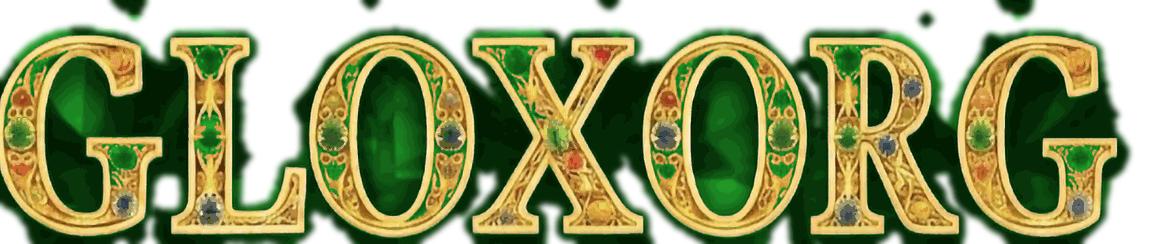
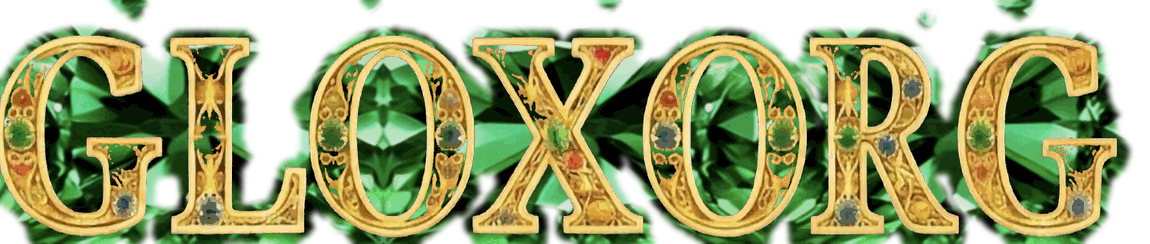
B121: Müşteri/altın harf içi gerçek pırlanta + üstbar düzen (yazı küçük, ikon büyük, alt yazı belirgin)
Harf iç zemini koyu boyama yerine GERÇEK mavi/yeşil pırlanta dokusuyla
dolduruldu (pro'daki gibi parlak, canlı; renkli taşlar korundu). GLOXORG
görseli küçültüldü (34→27px), ikonlar büyütüldü (menü/zil 23→28, ayı 34→42,
profil 26→33), alt yazı "Dünyanın Platformu" parlak altın + kalın + güçlü
gölge (pırlanta zeminde okunur). Kırmızı(pro) değişmedi. sw.js B120→B121.

Claude-Session: https://claude.ai/code/session_01NL5UFbXL2aH6562eJk5V7E

diff --git a/src/Anasayfa.css b/src/Anasayfa.css
@@ -720,7 +720,7 @@
 }
 /* PIRLANTA ZEMİN (üyelik teması: yakut/mavi/yeşil) üstbar — JS inline background-image; pırlantanın RENGİNE dokunulmaz.
    Yazı/ikonlar parlak yüzeyde de okunsun diye SADECE gölge güçlendirilir. */
-.ana-header-elmas .ana-alt{ text-shadow:0 1px 2px rgba(0,0,0,.6), 0 0 7px rgba(0,0,0,.45); }
+.ana-header-elmas .ana-alt{ color:#ffe9b0; text-shadow:0 1px 2px #000, 0 0 6px rgba(0,0,0,.85), 0 1px 5px rgba(0,0,0,.7); }
 .ana-header-elmas .ana-menu-btn, .ana-header-elmas .ana-zil, .ana-header-elmas .ana-site-ai, .ana-header-elmas .ana-ara-btn{ filter:drop-shadow(0 1px 3px rgba(0,0,0,.75)); }
 /* MÜCEVHER ÇERÇEVE: her kenarda İNCE ALTIN şerit + İÇİNE gömülü renkli gerçek pırlanta taşları (altın+taş TEK PARÇA) */
 .hdr-cerceve{ position:absolute; inset:4px; pointer-events:none; z-index:4; } /* kenardan İÇERİ → bilgisayarda taşlar pencereden kaçmaz */
@@ -756,7 +756,7 @@
   color:#FFD700; display:flex; align-items:center; filter:drop-shadow(0 0 4px rgba(255,215,0,.4));
 }
 /* İkonlar EŞİT boy (menü = zil = pusula) */
-.ana-menu-btn svg, .ana-ara-btn svg{ width:23px; height:23px; }
+.ana-menu-btn svg, .ana-ara-btn svg{ width:28px; height:28px; } /* telefon ikonları büyütüldü (kullanıcı) */
 /* DİL SEÇİCİ MENÜDE — tam satır (globe + dil adı), diğer menü ögeleri gibi */
 .menu-dil{ margin:2px 0; }
 .menu-dil .dil-kose{ position:static; inset:auto; top:auto; right:auto; left:auto; bottom:auto; z-index:auto;
@@ -772,8 +772,8 @@
 .header-dil .dil-etiket{ display:none; }
 .header-dil .dil-dugme{ width:auto; height:auto; background:none; border:none; box-shadow:none; -webkit-backdrop-filter:none; backdrop-filter:none; }
 /* Pusula da AYNI boy (önceki .ana-ara-btn svg kuralı ufaltıyordu) + profile yakın */
-.ana-site-ai .ana-site-ai-pusula{ width:23px; height:23px; }
-.ana-site-ai{ margin-right:-2px; width:34px; height:34px; min-width:34px; } /* base boyut BURADA (media blokları sonra gelip büyütebilsin); 1844'teki boyut kaldırıldı */
+.ana-site-ai .ana-site-ai-pusula{ width:30px; height:30px; } /* ayı büyütüldü (kullanıcı) */
+.ana-site-ai{ margin-right:-2px; width:42px; height:42px; min-width:42px; } /* base boyut BURADA (media blokları sonra gelip büyütebilsin) */
 .ana-zil{ margin-left:-3px; }
 .ana-logo-sar{ flex:1; display:flex; flex-direction:column; align-items:center; justify-content:center; text-align:center; min-width:0; margin-top:-5px; }
 .ana-logo-sat{ display:flex; align-items:center; justify-content:center; gap:9px; }
@@ -801,9 +801,9 @@
 .ana-logo-yazi{ position:relative; display:inline-block; margin:0 38px; }
 /* PRO üye GLOXORG GÖRSELİ (bannerdaki nakışlı yazı) — mavi elmas/düz yazı yok; yan boşluk yok, görsel geniş durur */
 .ana-logo-yazi-pro{ margin:0; }
-.ana-logo-img{ display:block; height:34px; width:auto; max-width:min(66vw,340px); object-fit:contain; filter:drop-shadow(0 1px 3px rgba(0,0,0,.5)); }
-@media (min-width:560px) and (min-height:600px){ .ana-logo-img{ height:54px; max-width:min(60vw,520px); } }
-@media (min-width:1100px) and (min-height:600px){ .ana-logo-img{ height:74px; } }
+.ana-logo-img{ display:block; height:27px; width:auto; max-width:min(56vw,290px); object-fit:contain; filter:drop-shadow(0 1px 3px rgba(0,0,0,.5)); }
+@media (min-width:560px) and (min-height:600px){ .ana-logo-img{ height:44px; max-width:min(54vw,440px); } }
+@media (min-width:1100px) and (min-height:600px){ .ana-logo-img{ height:60px; } }
 .ana-amblem{ position:absolute; top:50%; transform:translateY(-50%);
   width:13px; height:13px; display:block; pointer-events:none; }
 .ana-amblem.sag{ left:100%; margin-left:3px; }
@@ -839,14 +839,14 @@
 @keyframes amYuvaParla{ 0%,100%{ filter:drop-shadow(0 0 0 rgba(255,215,0,0)); } 50%{ filter:drop-shadow(0 0 2.5px rgba(255,215,0,.9)); } }
 /* Alt yazı ORTALI kalır; dünya da AYRI (akış-dışı) — hizayı BOZMAZ */
 .ana-alt-sar{ position:relative; display:inline-block; margin-top:1px; }
-.ana-alt{ font-family:'Cormorant Garamond',serif; font-style:italic; font-size:10px; color:#9c8f6b; letter-spacing:.2px; }
+.ana-alt{ font-family:'Cormorant Garamond',serif; font-style:italic; font-size:11.5px; font-weight:700; color:#ffe6ac; letter-spacing:.2px; } /* pırlanta zeminde okunsun: parlak altın + kalın (kullanıcı: soluktu) */
 /* 3D DÜNYA küre (SVG) — net renkli kıtalar yatay döner; küresel ışık/gölge svg içinde */
 .ana-dunya{ position:absolute; left:100%; top:50%; transform:translateY(-50%); margin-left:5px;
   width:15px; height:15px; display:block; pointer-events:none; } /* UFAK — pırlantaya DEĞMEZ */
 .ana-dunya svg{ display:block; width:100%; height:100%; filter:drop-shadow(0 0 4px rgba(120,200,255,.6)); }
 .ana-profil-foto{ width:100%; height:100%; border-radius:50%; object-fit:cover; }
 .ana-profil{ overflow:hidden;
-  width:26px; height:26px; border-radius:50%; flex:none; cursor:pointer;
+  width:33px; height:33px; border-radius:50%; flex:none; cursor:pointer;
   background:radial-gradient(circle at 50% 35%, #2a2010, #0c0905);
   border:1.5px solid rgba(255,215,0,.6); display:flex; align-items:center; justify-content:center;
   font-family:'Cinzel',serif; font-weight:700; color:#FFD700; font-size:11.5px;
@@ -2124,7 +2124,7 @@ html[dir="rtl"] .ana-menu{ left:auto; right:0; border-right:none; border-left:1p
 
 /* SİTE ASİSTANI başlık ikonu — RENKLİ PUSULA (altın halka + kırmızı/beyaz iğne) */
 .ana-site-ai{ padding:0; display:flex; align-items:center; justify-content:center; background:none !important; border:none; } /* boyut 693'te + media bloklarında (50/58px) */
-.ana-site-ai-pusula{ width:28px; height:28px; filter:drop-shadow(0 0 5px rgba(255,215,0,.5)); }
+.ana-site-ai-pusula{ width:34px; height:34px; filter:drop-shadow(0 0 5px rgba(255,215,0,.5)); }
 .ana-site-ai:active{ transform:scale(.9); }
 
 /* ===== GLOXORG YARDIMCISI — yapay zeka sohbet balonu + penceresi ===== */

diff --git a/src/buildGecmisi.js b/src/buildGecmisi.js
@@ -2,6 +2,7 @@
 // Her deploy'da AKTİF satırın: build +1, tarih, saat, aciklama güncelle.
 // Yeni A-serisine geçince başına yeni satır ekle — eski satırlar silinmez.
 export const buildGecmisi = [
+  { surum:'A11', build:121, dosya:'MUSTERI/ALTIN HARF ICI GERCEK PIRLANTA + USTBAR DUZEN (kullanici: "ici mavi karanlik, dunyanin platformu soluk, GLOXORG buyuk, ikonlar ufak"). (1) HARF ICI: B120 de ic zemin koyu maviye/yesile BOYANMISTI (karanlik gorunuyordu); artik harflerin ic zemini GERCEK mavi/yesil pirlanta dokusu (maviZemin/yesilZemin hafif blur+koyultma) ile dolduruldu -> pro daki gibi PARLAK, canli, zeminle uyumlu; renkli taslar korundu. (2) GLOXORG gorseli KUCULTULDU (ana-logo-img 34->27px telefon, 54->44 tablet, 74->60 pc). (3) IKONLAR BUYUTULDU: menu/zil svg 23->28, ayi(site-ai) 34->42 (pusula 28->34/23->30), profil 26->33px. (4) ALT YAZI "Dunyanin Platformu" belirginlesti: renk soluk #9c8f6b -> parlak #ffe6ac + kalin + guclu golge (pirlanta zeminde okunur). Kirmizi(pro) wordmark degismedi (kullanici begendi). sw.js B120->B121.', tarih:'2026-07-06', saat:'17:40', aciklama:'Müşteri/altın harf içi gerçek parlak pırlanta (karanlık değil) + GLOXORG küçültüldü, ikonlar büyütüldü, alt yazı belirginleşti. Almanya saati.', tarih2:'' },
   { surum:'A11', build:120, dosya:'MUSTERI/ALTIN GLOXORG HARFLERI ARTIK RENKLI (pro gibi) — sadece ZEMIN boyandi, TASLAR renkli kaldi (kullanici: "harfler renksiz oldu, kirmizi uye gibi renkli ve guzel olsun"). B119 da harf ici TUM kirmizi (zemin+taslar) maviye/yesile boyanmisti -> taslar renksiz/tek-renk gorunuyordu. DUZELTME: reddish bolgeler baglantili-bilesen ile ayrildi; SADECE BUYUK kirmizi alanlar (ic zemin+halo, alan>2600px) temaya boyandi; KUCUK kirmizi lekeler (kirmizi TASLAR) RENKLI birakildi. Boylece musteri(mavi)/altin(yesil) harfleri pro gibi COK RENKLI (kirmizi/yesil/mavi/turuncu tas) ama ic zemin mavi/yesil pirlantayla uyumlu. src/gloxWordmarkMavi.png + gloxWordmarkYesil.png guncellendi. Kod/zemin ayni. sw.js B119->B120.', tarih:'2026-07-06', saat:'17:00', aciklama:'Müşteri/altın GLOXORG harfleri artık pro gibi renkli (taşlar korundu, sadece iç zemin maviye/yeşile boyandı). Almanya saati.', tarih2:'' },
   { surum:'A11', build:119, dosya:'MUSTERI/ALTIN UYE GLOXORG HARFLERI TEMIZLENDI (kullanici: "harfler delikli/parcali oldu, pro daki temiz harfleri uygula, zemin guzel"). B118 de musteri/altin icin SEFFAF wordmark kullanilmisti; filigran araları bg gosterdigi icin harfler DELIKLI/parcali goruniyordu. DUZELTME: pro daki gibi TEMIZ DOLU harfler (opak blob) kullanildi; harflerin icindeki KIRMIZI (yakut ic zemin + halo + kirmizi taslar + koyu maroon) luminans korunarak temaya BOYANDI: musteri=MAVI (safir), altin=YESIL. Boylece harfler pro kadar temiz+dolu (delik yok) ama ic renk mavi/yesil pirlantayla uyumlu. src/gloxWordmarkMavi.png + gloxWordmarkYesil.png (opak dolu, boyali); gloxWordmarkT.png (delikli seffaf) kaldirildi. uyeWordmark: altin->yesil, pro->yakut(kirmizi), musteri->mavi. Zeminler (mavi/yesil/yakut) B118 deki gibi. Islev degismedi. sw.js B118->B119.', tarih:'2026-07-06', saat:'16:35', aciklama:'Müşteri/altın GLOXORG harfleri artık pro gibi temiz+dolu (delikli değil); içi mavi/yeşil pırlantaya boyandı. Almanya saati.', tarih2:'' },
   { surum:'A11', build:118, dosya:'USTBAR PIRLANTA TEMASI 3 UYELIK ICIN (kullanici): MUSTERI=MAVI, PROFESYONEL=YAKUT, ALTIN PIRLANTA UYELIGI=YESIL pirlanta zemin + nakisli GLOXORG. (1) Kullanicinin mavi (e96d278a) ve yesil (83105126) pirlanta fotograflari yakut gibi islendi: siyah kenar kirpildi, 3 kez aynali birlestirildi (dikissiz) -> src/maviZemin.jpg + src/yesilZemin.jpg. (2) ana-header artik HER uyeye pirlanta zemin: uyeTema = uyelik==altin ? yesil : proUye ? yakut : mavi (inline backgroundImage). (3) Nakisli GLOXORG yazisi 2 surumde: pro=yakut zeminli blob (gloxWordmark.png, kirmizida en zengin), musteri/altin=SEFFAF (gloxWordmarkT.png) — harfler yesil-kanal maskesiyle kesilmeden ayrildi (altin=yuksek G, kirmizi zemin=dusuk G; strok bozulmaz), kucuk artiklar temizlendi, mavi/yesil pirlantada temiz oturur. Eski duz GLOXORG yazisi + mavi elmaslar (AmblemMavi) KALDIRILDI (tum uyeler artik nakisli gorsel). CSS ana-header-yakut -> ana-header-elmas (tum pirlanta zeminlerde golge). Islev degismedi, sadece tema/gorsel. sw.js B117->B118.', tarih:'2026-07-06', saat:'16:10', aciklama:'Üstbar: müşteri=mavi, profesyonel=yakut, altın üye=yeşil pırlanta zemin + nakışlı GLOXORG (hepsinde). Almanya saati.', tarih2:'' },

diff --git a/public/sw.js b/public/sw.js
@@ -1,7 +1,7 @@
 /* GLOXORG servis çalışanı — bildirim göstermek için (Android Chrome new Notification() desteklemez,
    ServiceWorkerRegistration.showNotification() gerekir). Tam ekran/arka plan sekmede bildirim çıkar.
    SW_SURUM: her yayında ARTAR → tarayıcı yeni sw.js farkını görüp yeni sürümü kurar (eski önbellekte takılmaz). */
-const SW_SURUM = "B120";
+const SW_SURUM = "B121";
 self.addEventListener("install", (e) => { self.skipWaiting(); });
 self.addEventListener("activate", (e) => { e.waitUntil((async () => {
   // Eski onbellekleri temizle (kullanici bir daha ESKI surumde takilmasin)
